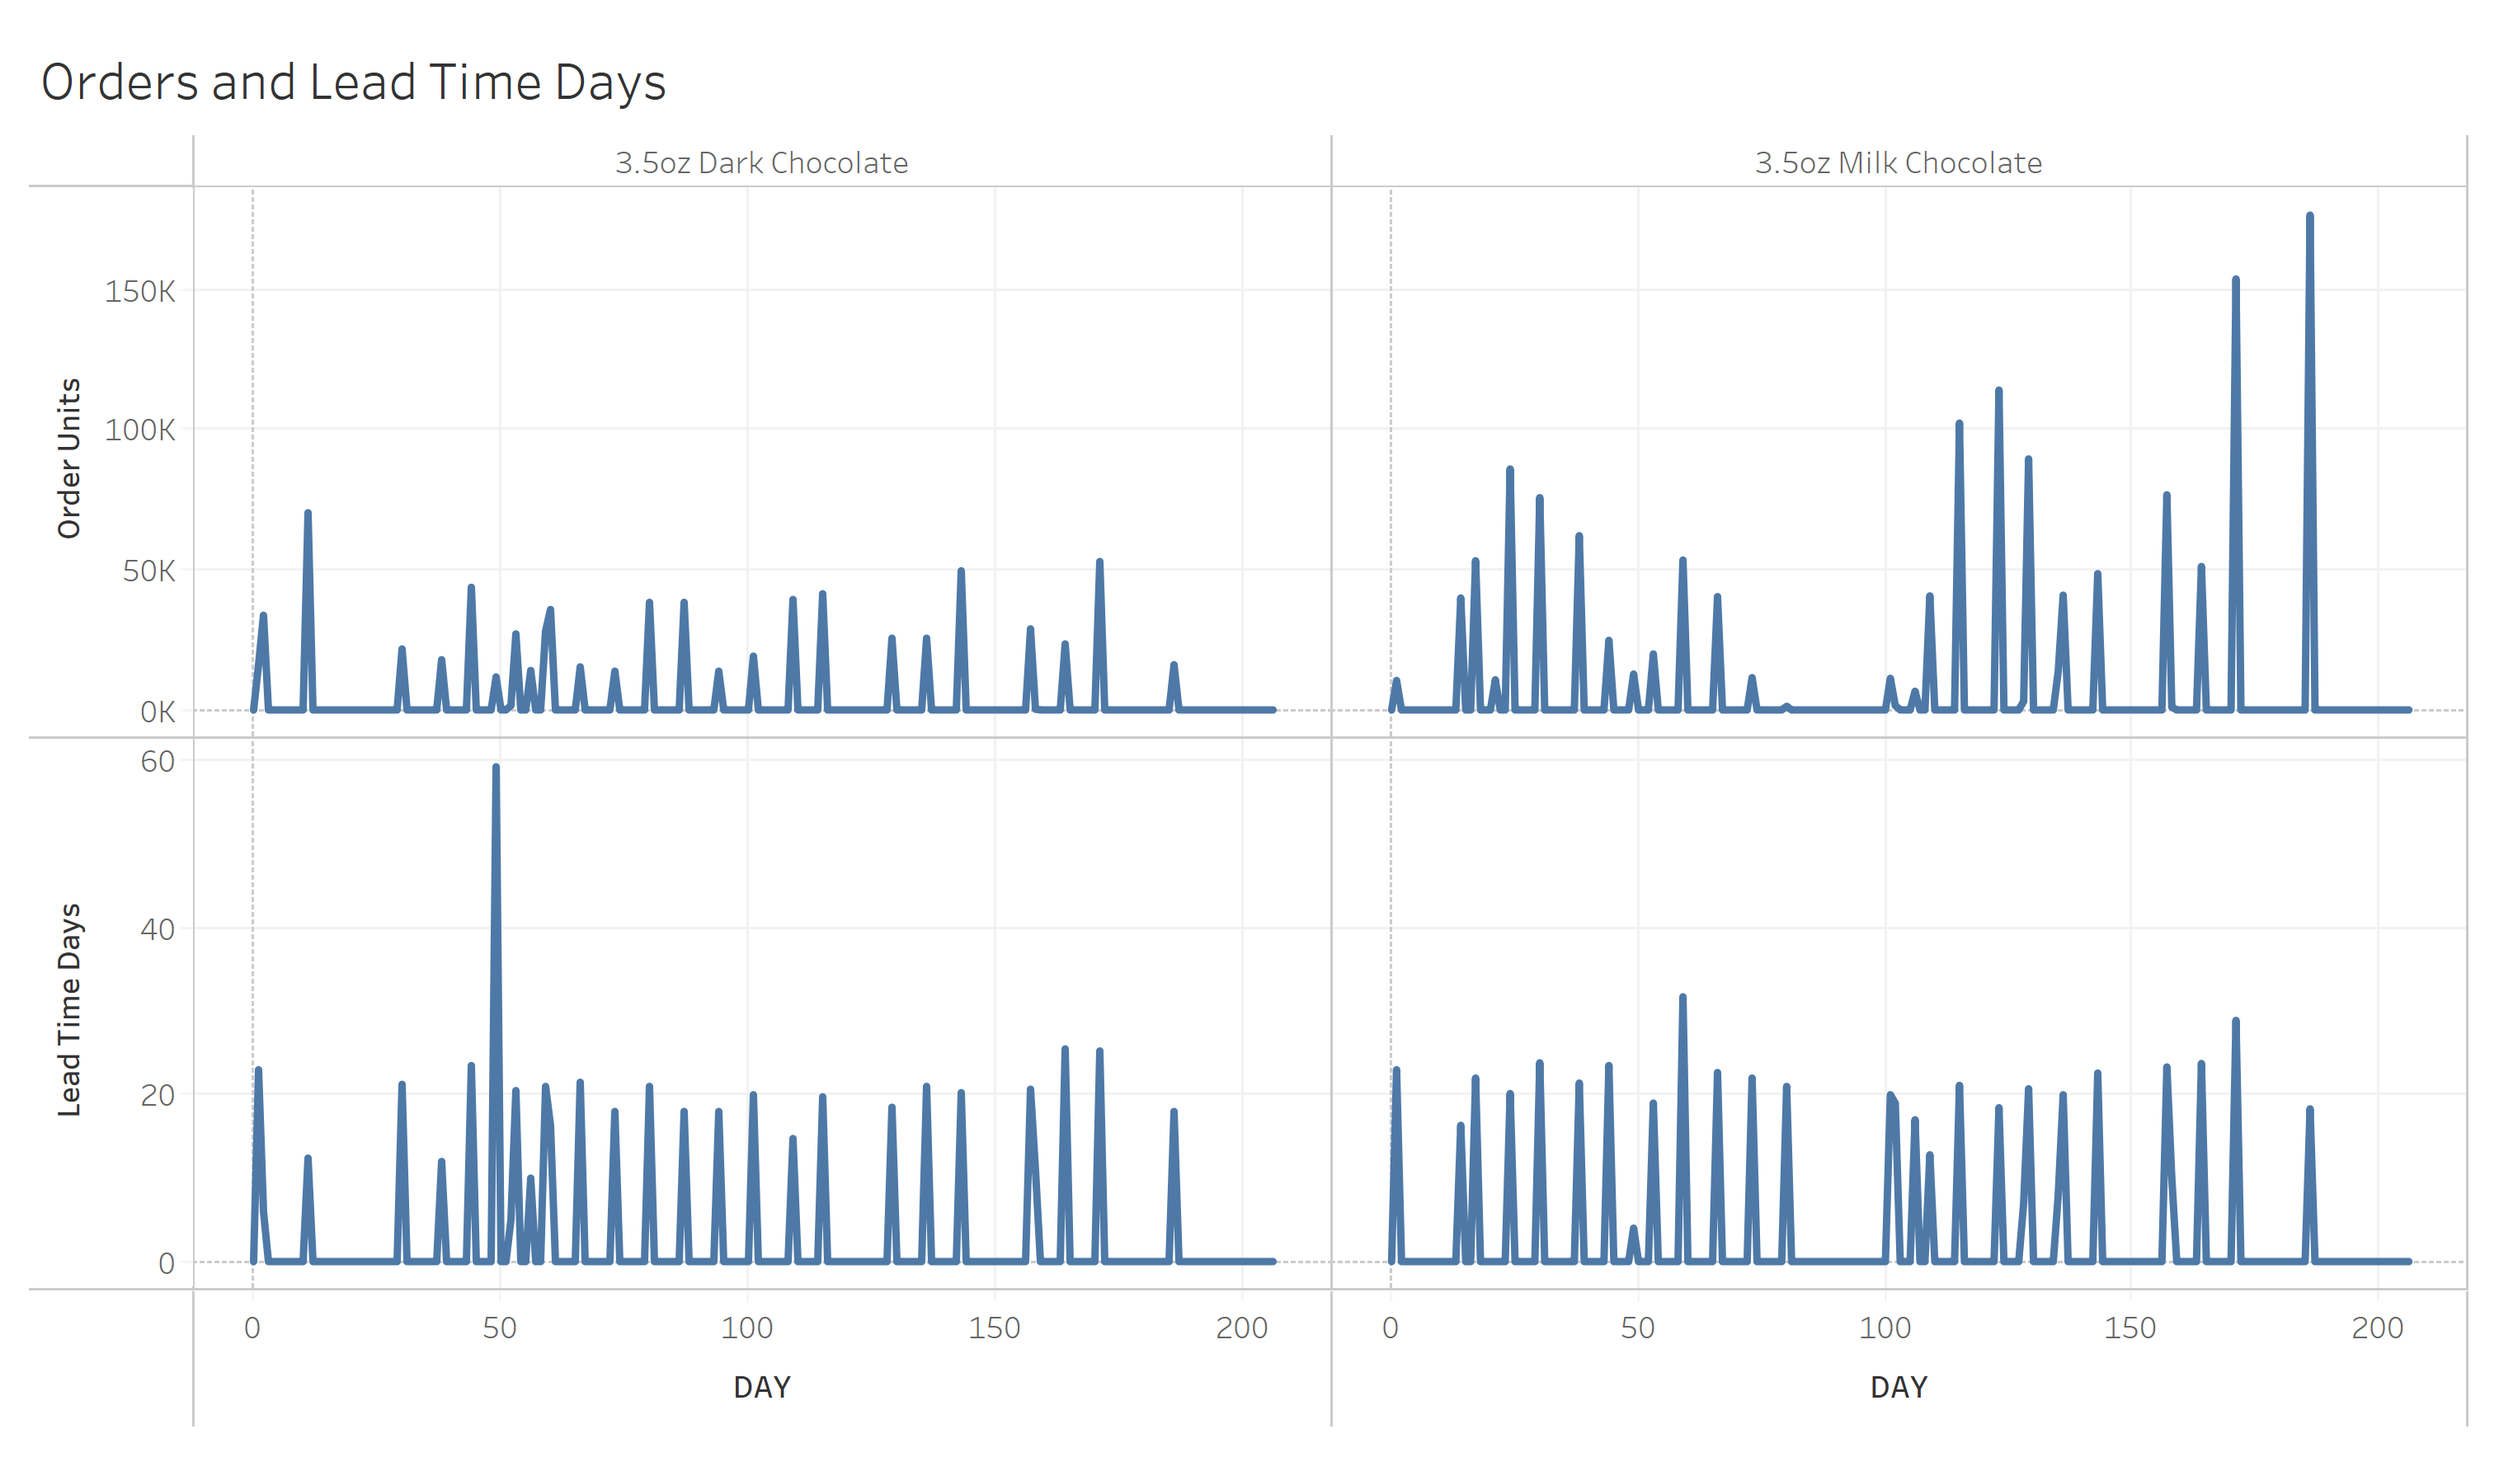
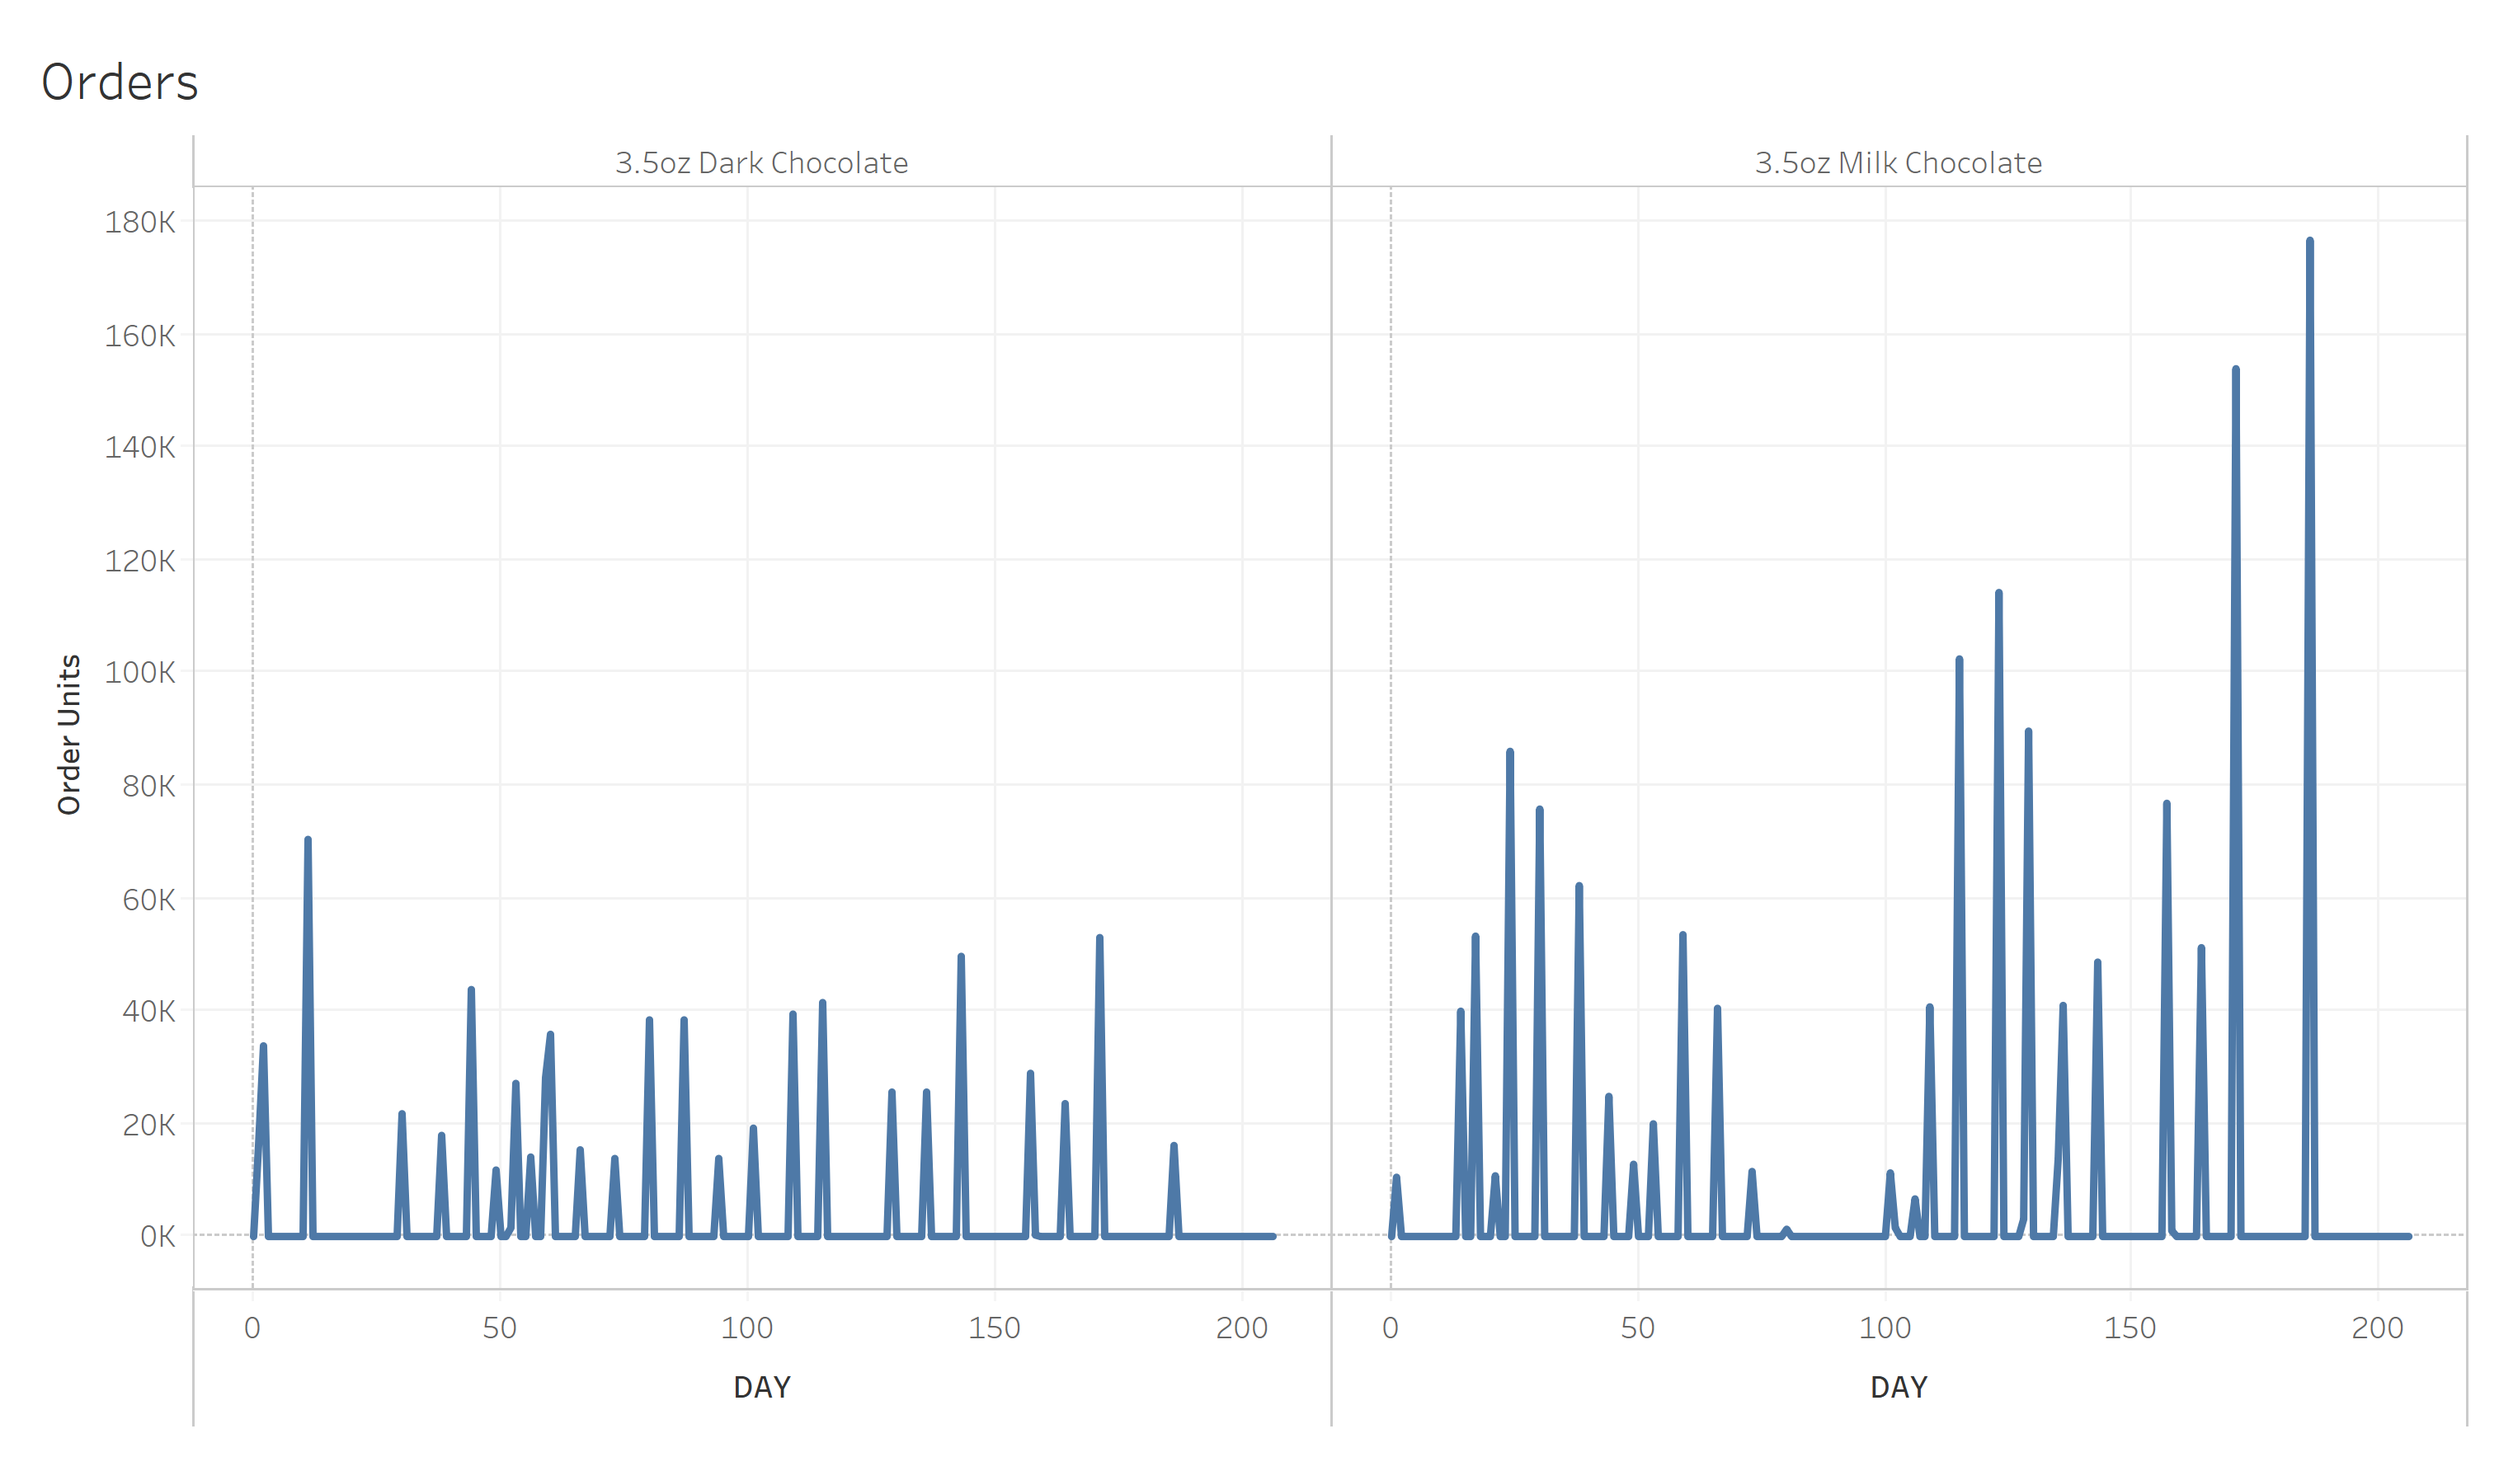
Updated orders

diff --git a/_posts/2020-4-10-Multi-Period Inventory Planning with Stochastic Demand Using Python.md b/_posts/2020-4-10-Multi-Period Inventory Planning with Stochastic Demand Using Python.md
@@ -29,8 +29,8 @@ transfers to their regional warehouse (see Figure 1).
 
 After PCC receives orders from retailer, 
 PCC prepares (picks) orders and retailer picks them
-from PCC's warehouse. PCC and retailer has a 99% service level agreement
-which is at least 99 of 100 orders should be satisfied within 7 days. 
+from PCC's warehouse. PCC and retailer has a 100% service level agreement
+which is an order should be satisfied within 7 days. 
 Therefore, PCC carries safety stock to be able to meet retailers service
 level requirement. 
 
@@ -78,23 +78,6 @@ There is differences in the demand distributions for milk and dark chocolates
 | ![_config.yml]({{ site.baseurl }}/images/Multi-Period Inventory Planning with Stochastic Demand Using Python/demand_distribution.png) | 
 |:--:| 
 | *Figure 3: Demand Distribution* |
-
-Lead time is the time between order place time
-and retailer pick time.
-Figure 4 illustrates lead time distributions. 
-Lead time for both products is average around 19 days
-and CoV is less than 50%.
-
-We assume that lead time is 19 days for both products.
-
-| ![_config.yml]({{ site.baseurl }}/images/Multi-Period Inventory Planning with Stochastic Demand Using Python/lead_time_distribution.png) | 
-|:--:| 
-| *Figure 4: Lead Time Distribution* |
-
-| Product | Average Lead Time Days | Lead Time Standard Dev. Days | Lead Time CoV | 
-|-------|-------|-------|-------|
-| 3.5oz Dark Chocolate | 19.3 | 9.4 | 0.48 |
-| 3.5oz Milk Chocolate | 18.7 | 6.9 | 0.37 |
 
 The inter arrival time is the time between each arrival of an order and the next. 
 Figure 5 illustrates interarrival times for both products.
